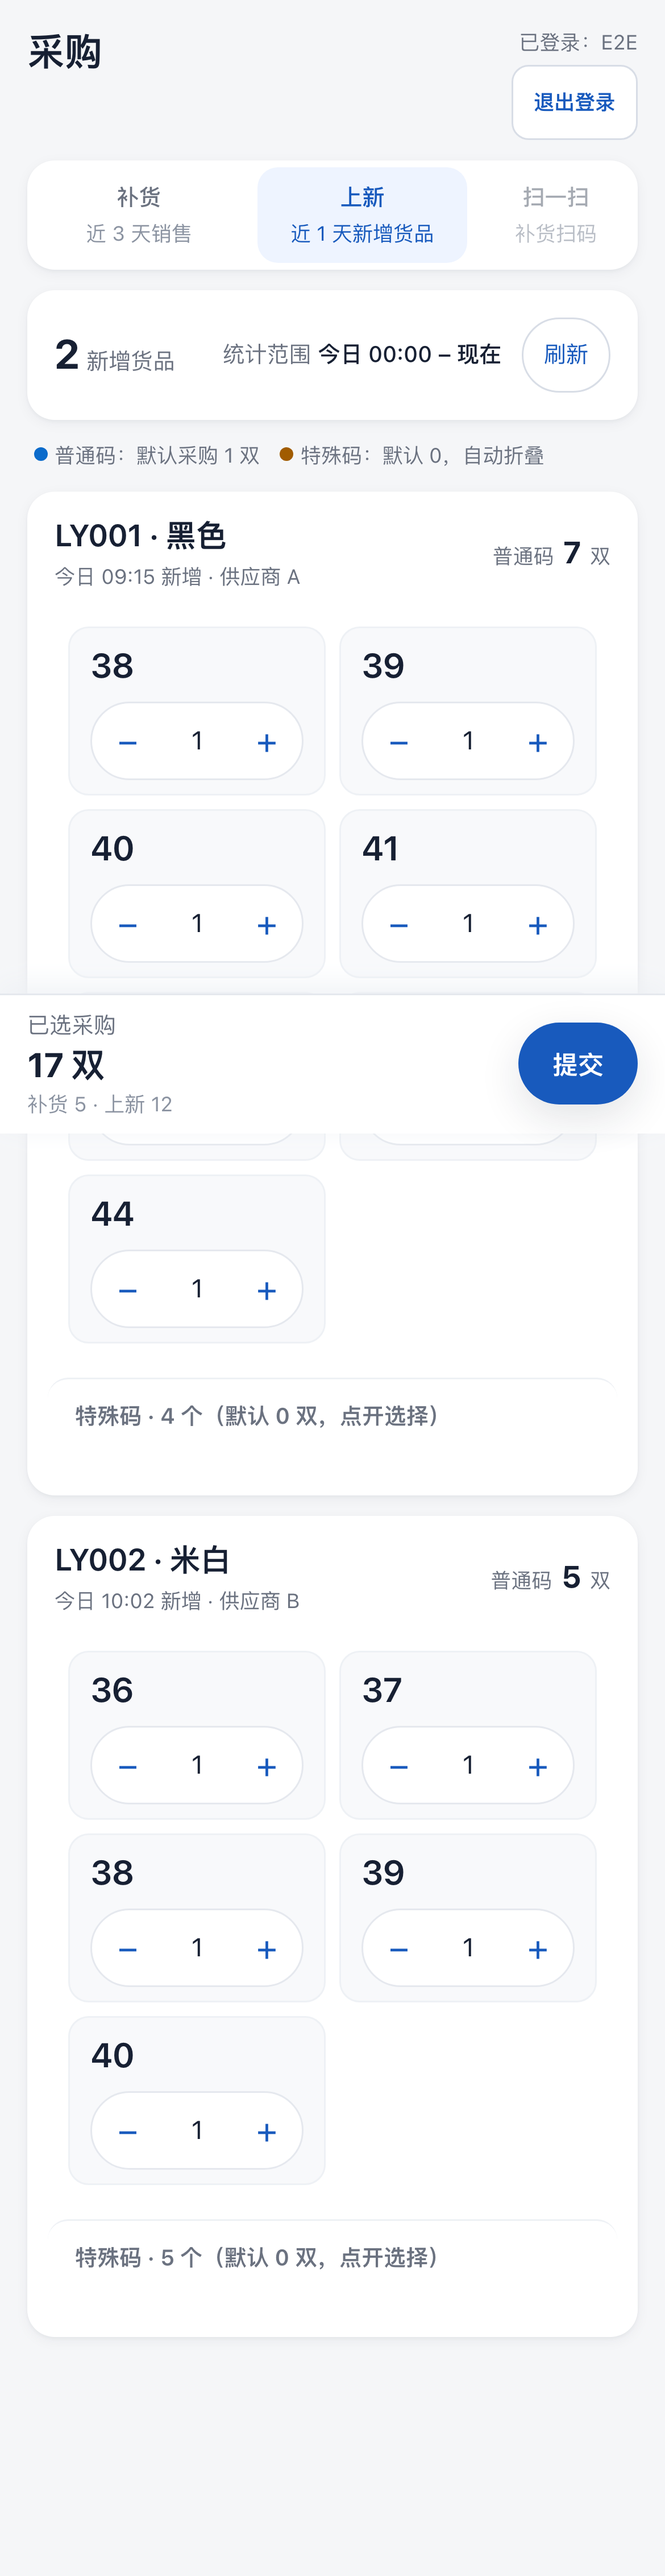
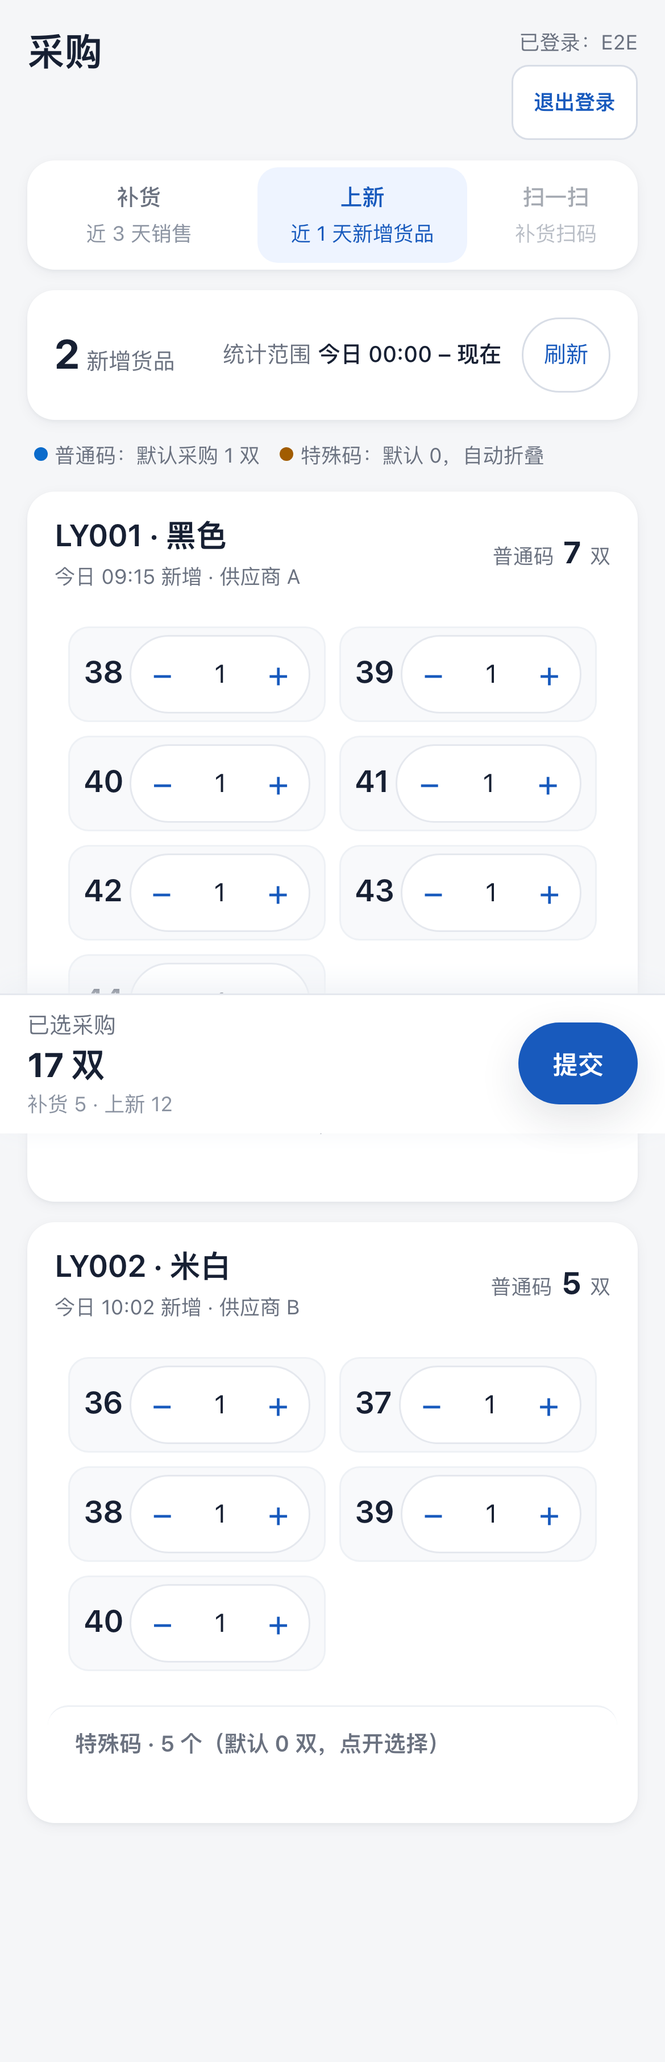
fix(procurement): 上新尺码卡内「尺码 + 加减框」同一行（业务负责人 2026-10-29 批注）
- 上新没有现货/预订数量要展示 ⇒ 卡内不再上下两栏，尺码与加减框同一行；
- 仍保持一行两个尺码；补货保持上下两栏 + 圆框居中不变；
- 全量 2262 tests / 2261 pass / 0 fail；e2e 14 passed；size:check 绿。

diff --git a/server/public/workbench/procurement.css b/server/public/workbench/procurement.css
@@ -69,9 +69,12 @@
 .pr-tag-spot { background: var(--info-soft); color: var(--info); }
 .pr-tag-pre { background: var(--warning-soft); color: var(--warning); }
 
-/* 上新尺码格：与补货**同一套卡片样式**（一行两个 · 上下两栏 · 加减圆框居中） */
+/* 上新尺码格：一行两个；卡内「尺码 + 加减框」**同一行**（业务负责人 2026-10-29 批注） */
 .pr-new-grid { display: grid; grid-template-columns: repeat(2, minmax(0, 1fr)); gap: var(--space-2); padding: var(--space-2) var(--space-3) var(--space-3); width: 100%; }
-.pr-new-grid .pr-size-row { width: 100%; }
+.pr-new-grid .pr-size-row { width: 100%; flex-direction: row; align-items: center; justify-content: space-between; gap: var(--space-1); padding: var(--space-1) var(--space-2); }
+.pr-new-grid .pr-size-row .pr-size { font-size: var(--font-size-lg); }
+.pr-new-grid .pr-size-row .pr-pick { justify-content: flex-end; }
+.pr-new-grid .pr-stepper input { width: 32px; }
 .pr-special { width: 100%; padding: 0 var(--space-4) var(--space-3); border-top: 1px solid var(--border-light); }
 .pr-special summary { display: flex; align-items: center; min-height: var(--control-height); font-size: var(--font-size-sm); color: var(--text-secondary); cursor: pointer; }
 

diff --git a/server/public/workbench/features/procurement/render.js b/server/public/workbench/features/procurement/render.js
@@ -111,10 +111,10 @@ export const replenishGroupHtml = (group, draft, store, config) => `<section cla
 
 const newRowHtml = (group, size, draft, store, config) => {
   const quantity = store.quantityOf(draft, group.productRecordId, size);
-  // 业务负责人 2026-10-29：上新尺码格**统一成补货那种卡片样式** ——
-  // 上下两栏（第一行尺码 / 第二行加减圆框居中），一行两个。
-  return `<div class="pr-size-row">
-    <div class="pr-size-row-head"><div class="pr-size">${escapeHtml(size)}</div></div>
+  // 业务负责人 2026-10-29 二次批注：上新卡里**尺码和加减框在同一行**（不需要像补货那样上下两栏，
+  // 因为上新没有"现货/预订数量"信息要展示）；仍保持**一行两个尺码**。
+  return `<div class="pr-size-row pr-size-row-inline">
+    <div class="pr-size">${escapeHtml(size)}</div>
     ${stepperHtml({ recordId: group.productRecordId, size, quantity, config })}
   </div>`;
 };

diff --git a/docs/procurement-page-real-2026-10-28.md b/docs/procurement-page-real-2026-10-28.md
@@ -112,9 +112,10 @@ tab 切换保留当前会话已选数据；点「提交」才统一写入
 - **AC-P18d 上新统计条一行**（业务负责人 2026-10-29 批注）：上新只有 1 个统计项 ⇒
   统计（新增货品 N）+ 统计范围（今日 00:00 – 现在）+「刷新」按钮**排在同一行**（不再大块留白）；补货 3 项统计保持原样。
   （单统计项 ⇒ 一行，直接由"统计项只有 1 个"决定，**不设配置开关**——业务负责人 2026-10-29 确认。）
-- **AC-P18c 尺码卡 = 一行两个 + 上下两栏（补货与上新统一）**（业务负责人 2026-10-29 批注）：每个尺码卡 =
-  第一行「尺码（补货还带现货/预订数量信息）」、第二行「加减数量圆框」（**圆框在卡片里居中**）；
-  尺码卡**一行两个**（390 宽下也不横向滚动）；**上新 tab 的尺码格与补货同一套卡片样式**。
+- **AC-P18c 尺码卡 = 一行两个；补货上下两栏 / 上新单行**（业务负责人 2026-10-29 批注）：
+  · **补货**：每个尺码卡两栏 —— 第一行「尺码 + 现货/预订数量信息」、第二行「加减数量圆框」（圆框居中）；
+  · **上新**：卡内「尺码 + 加减数量圆框」**同一行**（上新没有现货/预订数量要展示），仍一行两个；
+  两页的尺码卡都**一行两个**（390 宽下也不横向滚动）。
 - **AC-P18b 所有尺码行都不显示勾选框**（业务负责人 2026-10-29 两次批注）：预订行的"对勾"、现货行的"方框"都不要；
   **是否选中由数量框决定（0 = 不选，>0 = 选中）**；预订行默认已选（数量 = 预订数）；
   现货行第一次点「+」按业务口径先给「现货已售数」（再按 ± 微调）；数量可直接手改。
